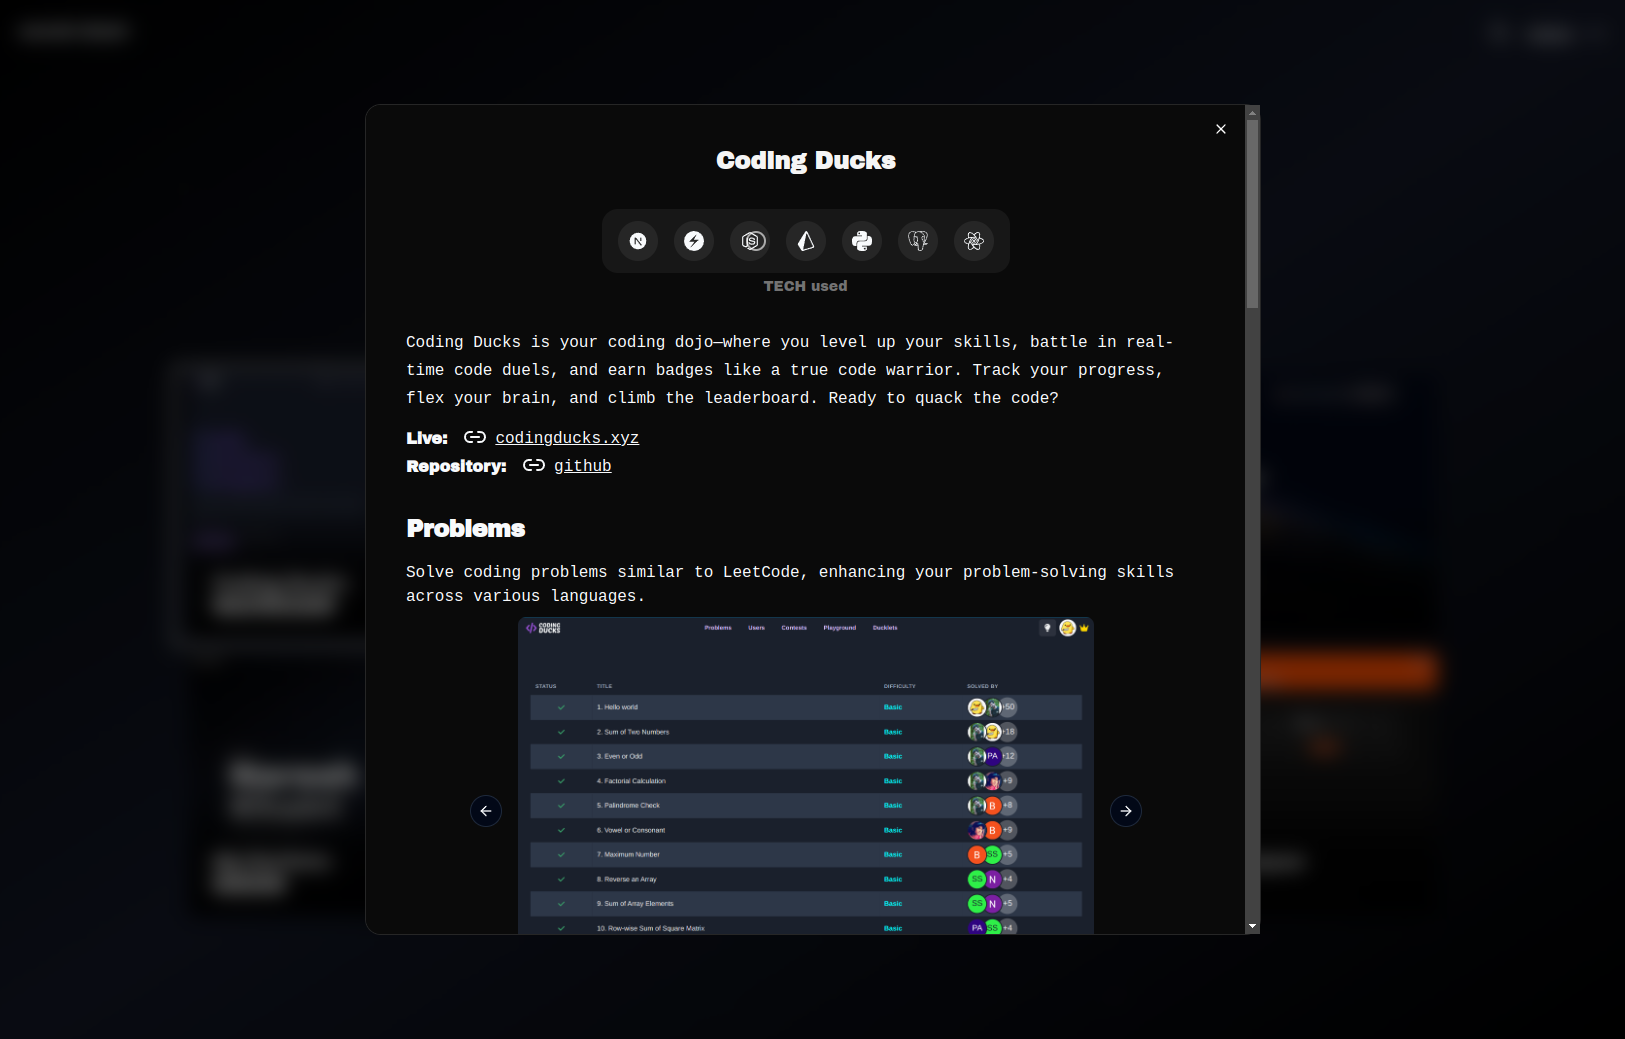
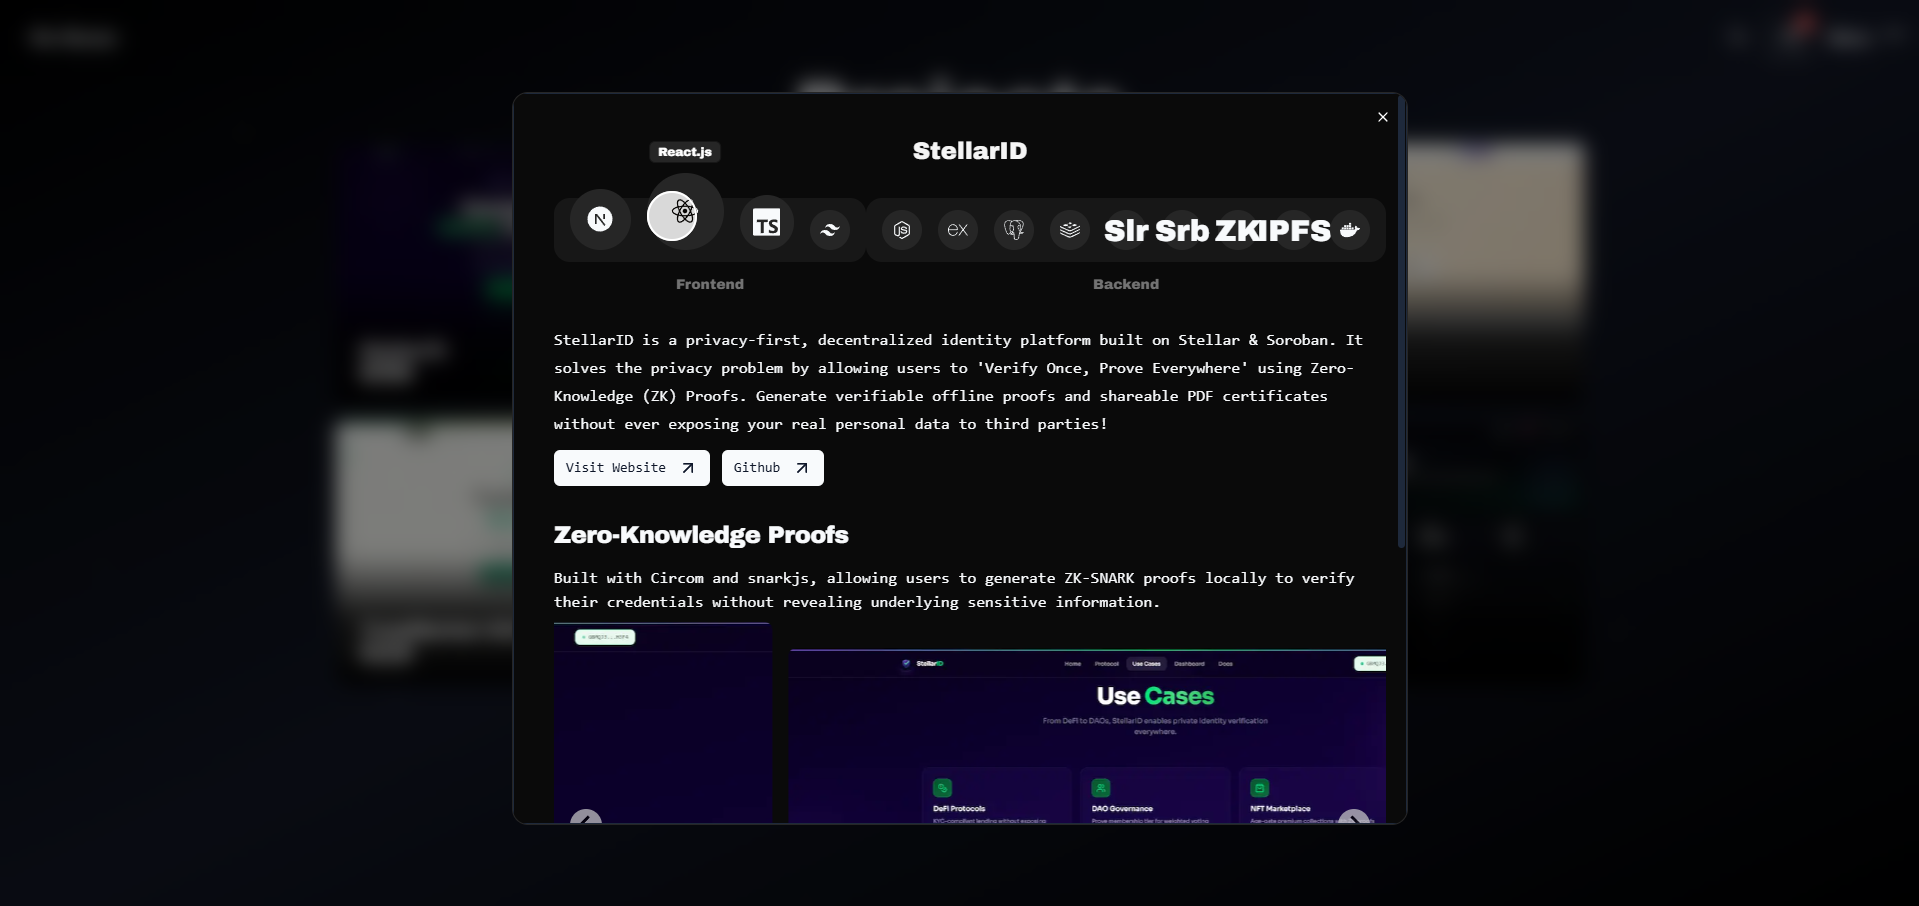
Add StellarID and ChatMint AI projects to the portfolio, including descriptions, tech stacks, and associated screenshots.

Changed region(s): [[0.1231, 0.0927, 0.8923, 0.9272], [0.4, 0.0618, 0.5846, 0.1854], [0.9231, 0.0, 0.9538, 0.0309]]

diff --git a/src/data/projects.tsx b/src/data/projects.tsx
@@ -13,6 +13,9 @@ import {
   SiSolidity,
   SiTailwindcss,
   SiTypescript,
+  SiPostgresql,
+  SiRedis,
+  SiDocker,
 } from "react-icons/si";
 import { TbBrandFramerMotion } from "react-icons/tb";
 const BASE_PATH = "/assets/projects-screenshots";
@@ -214,6 +217,34 @@ const PROJECT_SKILLS = {
       </span>
     ),
   },
+  postgres: {
+    title: "PostgreSQL",
+    bg: "black",
+    fg: "white",
+    icon: <SiPostgresql />,
+  },
+  redis: {
+    title: "Redis",
+    bg: "black",
+    fg: "white",
+    icon: <SiRedis />,
+  },
+  docker: {
+    title: "Docker",
+    bg: "black",
+    fg: "white",
+    icon: <SiDocker />,
+  },
+  zk: {
+    title: "Zero-Knowledge",
+    bg: "black",
+    fg: "white",
+    icon: (
+      <span>
+        <strong>Z</strong>K
+      </span>
+    ),
+  },
 };
 
 export type Project = {
@@ -229,6 +260,65 @@ export type Project = {
 };
 
 const projects: Project[] = [
+  {
+    id: "stellarid",
+    category: "Web3",
+    title: "StellarID",
+    src: `${BASE_PATH}/stellarid/landing.png`,
+    screenshots: ["landing.png", "use-cases.png", "protocol.png", "dashboard.png", "docs.png"],
+    live: "https://stellarid-id.vercel.app/",
+    github: "https://github.com/iamomm-hack/StellarID",
+    skills: {
+      frontend: [
+        PROJECT_SKILLS.next,
+        PROJECT_SKILLS.react,
+        PROJECT_SKILLS.ts,
+        PROJECT_SKILLS.tailwind,
+      ],
+      backend: [
+        PROJECT_SKILLS.node,
+        PROJECT_SKILLS.express,
+        PROJECT_SKILLS.postgres,
+        PROJECT_SKILLS.redis,
+        PROJECT_SKILLS.stellar,
+        PROJECT_SKILLS.soroban,
+        PROJECT_SKILLS.zk,
+        PROJECT_SKILLS.ipfs,
+        PROJECT_SKILLS.docker,
+      ],
+    },
+    get content() {
+      return (
+        <div>
+          <TypographyP className="font-mono ">
+            StellarID is a privacy-first, decentralized identity platform built on Stellar & Soroban. It solves the privacy problem by allowing users to &apos;Verify Once, Prove Everywhere&apos; using Zero-Knowledge (ZK) Proofs. Generate verifiable offline proofs and shareable PDF certificates without ever exposing your real personal data to third parties!
+          </TypographyP>
+          <ProjectsLinks live={this.live} repo={this.github} />
+          <TypographyH3 className="my-4 mt-8">
+            Zero-Knowledge Proofs
+          </TypographyH3>
+          <p className="font-mono mb-2">
+            Built with Circom and snarkjs, allowing users to generate ZK-SNARK proofs locally to verify their credentials without revealing underlying sensitive information.
+          </p>
+          <SlideShow
+            images={[
+              `${BASE_PATH}/stellarid/landing.png`,
+              `${BASE_PATH}/stellarid/use-cases.png`,
+              `${BASE_PATH}/stellarid/protocol.png`,
+              `${BASE_PATH}/stellarid/dashboard.png`,
+              `${BASE_PATH}/stellarid/docs.png`,
+            ]}
+          />
+          <TypographyH3 className="my-4 mt-8">
+            Decentralized Storage & Auth
+          </TypographyH3>
+          <p className="font-mono mb-2">
+            Credential metadata is securely stored on IPFS via Pinata. Authentication combines JWT with Stellar Wallet signatures for a seamless Web3 login experience.
+          </p>
+        </div>
+      );
+    },
+  },
   {
     id: "chatmint-ai",
     category: "Web3",
